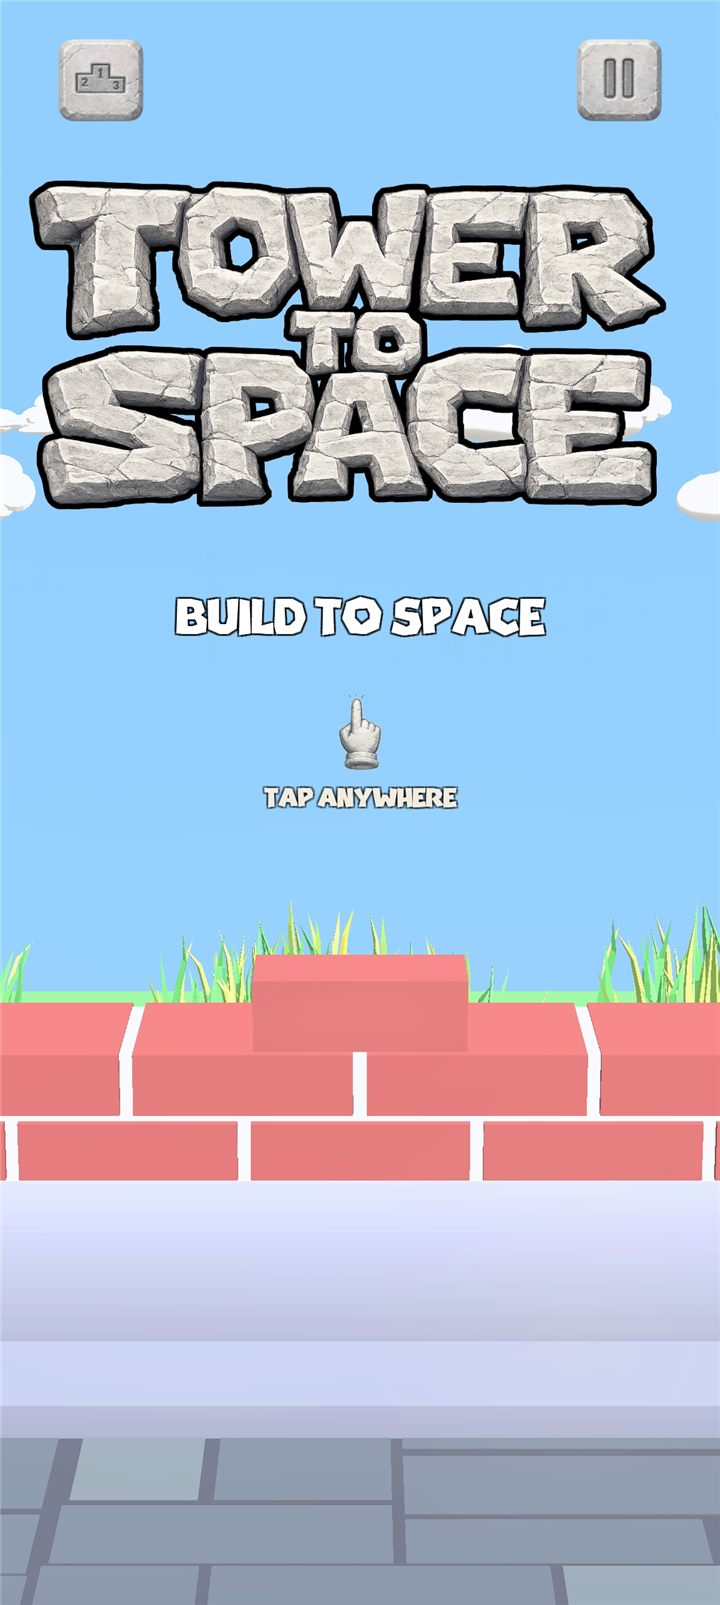
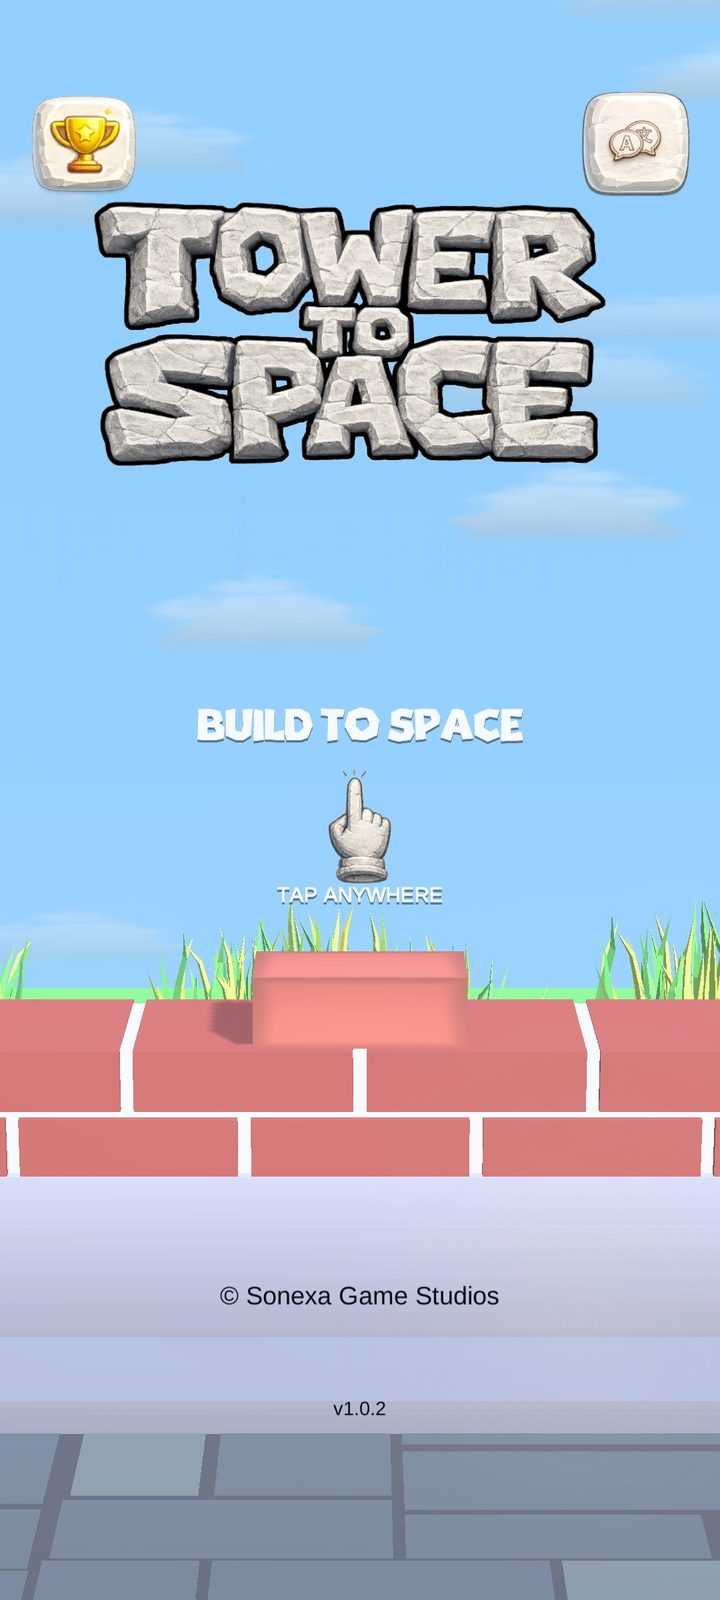
Replace the Tower To Space screenshots
Swaps in the six new Galaxy S20 FE captures, replacing the previous five.
All portrait, resized to 720px wide to match the other portrait shots on
the site.

diff --git a/br/index.html b/br/index.html
@@ -205,6 +205,7 @@
               <button class="shot-btn" type="button"><img src="/assets/tower/shot3.jpg" alt="Tower To Space" loading="lazy"></button>
               <button class="shot-btn" type="button"><img src="/assets/tower/shot4.jpg" alt="Tower To Space" loading="lazy"></button>
               <button class="shot-btn" type="button"><img src="/assets/tower/shot5.jpg" alt="Tower To Space" loading="lazy"></button>
+              <button class="shot-btn" type="button"><img src="/assets/tower/shot6.jpg" alt="Tower To Space" loading="lazy"></button>
             </div>
           </div>
           <div class="g-body">

diff --git a/cn/index.html b/cn/index.html
@@ -205,6 +205,7 @@
               <button class="shot-btn" type="button"><img src="/assets/tower/shot3.jpg" alt="Tower To Space" loading="lazy"></button>
               <button class="shot-btn" type="button"><img src="/assets/tower/shot4.jpg" alt="Tower To Space" loading="lazy"></button>
               <button class="shot-btn" type="button"><img src="/assets/tower/shot5.jpg" alt="Tower To Space" loading="lazy"></button>
+              <button class="shot-btn" type="button"><img src="/assets/tower/shot6.jpg" alt="Tower To Space" loading="lazy"></button>
             </div>
           </div>
           <div class="g-body">

diff --git a/de/index.html b/de/index.html
@@ -205,6 +205,7 @@
               <button class="shot-btn" type="button"><img src="/assets/tower/shot3.jpg" alt="Tower To Space" loading="lazy"></button>
               <button class="shot-btn" type="button"><img src="/assets/tower/shot4.jpg" alt="Tower To Space" loading="lazy"></button>
               <button class="shot-btn" type="button"><img src="/assets/tower/shot5.jpg" alt="Tower To Space" loading="lazy"></button>
+              <button class="shot-btn" type="button"><img src="/assets/tower/shot6.jpg" alt="Tower To Space" loading="lazy"></button>
             </div>
           </div>
           <div class="g-body">

diff --git a/es/index.html b/es/index.html
@@ -205,6 +205,7 @@
               <button class="shot-btn" type="button"><img src="/assets/tower/shot3.jpg" alt="Tower To Space" loading="lazy"></button>
               <button class="shot-btn" type="button"><img src="/assets/tower/shot4.jpg" alt="Tower To Space" loading="lazy"></button>
               <button class="shot-btn" type="button"><img src="/assets/tower/shot5.jpg" alt="Tower To Space" loading="lazy"></button>
+              <button class="shot-btn" type="button"><img src="/assets/tower/shot6.jpg" alt="Tower To Space" loading="lazy"></button>
             </div>
           </div>
           <div class="g-body">

diff --git a/fr/index.html b/fr/index.html
@@ -205,6 +205,7 @@
               <button class="shot-btn" type="button"><img src="/assets/tower/shot3.jpg" alt="Tower To Space" loading="lazy"></button>
               <button class="shot-btn" type="button"><img src="/assets/tower/shot4.jpg" alt="Tower To Space" loading="lazy"></button>
               <button class="shot-btn" type="button"><img src="/assets/tower/shot5.jpg" alt="Tower To Space" loading="lazy"></button>
+              <button class="shot-btn" type="button"><img src="/assets/tower/shot6.jpg" alt="Tower To Space" loading="lazy"></button>
             </div>
           </div>
           <div class="g-body">

diff --git a/index.html b/index.html
@@ -204,6 +204,7 @@
               <button class="shot-btn" type="button"><img src="/assets/tower/shot3.jpg" alt="Tower To Space" loading="lazy"></button>
               <button class="shot-btn" type="button"><img src="/assets/tower/shot4.jpg" alt="Tower To Space" loading="lazy"></button>
               <button class="shot-btn" type="button"><img src="/assets/tower/shot5.jpg" alt="Tower To Space" loading="lazy"></button>
+              <button class="shot-btn" type="button"><img src="/assets/tower/shot6.jpg" alt="Tower To Space" loading="lazy"></button>
             </div>
           </div>
           <div class="g-body">

diff --git a/it/index.html b/it/index.html
@@ -205,6 +205,7 @@
               <button class="shot-btn" type="button"><img src="/assets/tower/shot3.jpg" alt="Tower To Space" loading="lazy"></button>
               <button class="shot-btn" type="button"><img src="/assets/tower/shot4.jpg" alt="Tower To Space" loading="lazy"></button>
               <button class="shot-btn" type="button"><img src="/assets/tower/shot5.jpg" alt="Tower To Space" loading="lazy"></button>
+              <button class="shot-btn" type="button"><img src="/assets/tower/shot6.jpg" alt="Tower To Space" loading="lazy"></button>
             </div>
           </div>
           <div class="g-body">

diff --git a/jp/index.html b/jp/index.html
@@ -205,6 +205,7 @@
               <button class="shot-btn" type="button"><img src="/assets/tower/shot3.jpg" alt="Tower To Space" loading="lazy"></button>
               <button class="shot-btn" type="button"><img src="/assets/tower/shot4.jpg" alt="Tower To Space" loading="lazy"></button>
               <button class="shot-btn" type="button"><img src="/assets/tower/shot5.jpg" alt="Tower To Space" loading="lazy"></button>
+              <button class="shot-btn" type="button"><img src="/assets/tower/shot6.jpg" alt="Tower To Space" loading="lazy"></button>
             </div>
           </div>
           <div class="g-body">

diff --git a/kr/index.html b/kr/index.html
@@ -205,6 +205,7 @@
               <button class="shot-btn" type="button"><img src="/assets/tower/shot3.jpg" alt="Tower To Space" loading="lazy"></button>
               <button class="shot-btn" type="button"><img src="/assets/tower/shot4.jpg" alt="Tower To Space" loading="lazy"></button>
               <button class="shot-btn" type="button"><img src="/assets/tower/shot5.jpg" alt="Tower To Space" loading="lazy"></button>
+              <button class="shot-btn" type="button"><img src="/assets/tower/shot6.jpg" alt="Tower To Space" loading="lazy"></button>
             </div>
           </div>
           <div class="g-body">

diff --git a/latam/index.html b/latam/index.html
@@ -205,6 +205,7 @@
               <button class="shot-btn" type="button"><img src="/assets/tower/shot3.jpg" alt="Tower To Space" loading="lazy"></button>
               <button class="shot-btn" type="button"><img src="/assets/tower/shot4.jpg" alt="Tower To Space" loading="lazy"></button>
               <button class="shot-btn" type="button"><img src="/assets/tower/shot5.jpg" alt="Tower To Space" loading="lazy"></button>
+              <button class="shot-btn" type="button"><img src="/assets/tower/shot6.jpg" alt="Tower To Space" loading="lazy"></button>
             </div>
           </div>
           <div class="g-body">

diff --git a/pl/index.html b/pl/index.html
@@ -205,6 +205,7 @@
               <button class="shot-btn" type="button"><img src="/assets/tower/shot3.jpg" alt="Tower To Space" loading="lazy"></button>
               <button class="shot-btn" type="button"><img src="/assets/tower/shot4.jpg" alt="Tower To Space" loading="lazy"></button>
               <button class="shot-btn" type="button"><img src="/assets/tower/shot5.jpg" alt="Tower To Space" loading="lazy"></button>
+              <button class="shot-btn" type="button"><img src="/assets/tower/shot6.jpg" alt="Tower To Space" loading="lazy"></button>
             </div>
           </div>
           <div class="g-body">

diff --git a/ru/index.html b/ru/index.html
@@ -205,6 +205,7 @@
               <button class="shot-btn" type="button"><img src="/assets/tower/shot3.jpg" alt="Tower To Space" loading="lazy"></button>
               <button class="shot-btn" type="button"><img src="/assets/tower/shot4.jpg" alt="Tower To Space" loading="lazy"></button>
               <button class="shot-btn" type="button"><img src="/assets/tower/shot5.jpg" alt="Tower To Space" loading="lazy"></button>
+              <button class="shot-btn" type="button"><img src="/assets/tower/shot6.jpg" alt="Tower To Space" loading="lazy"></button>
             </div>
           </div>
           <div class="g-body">
